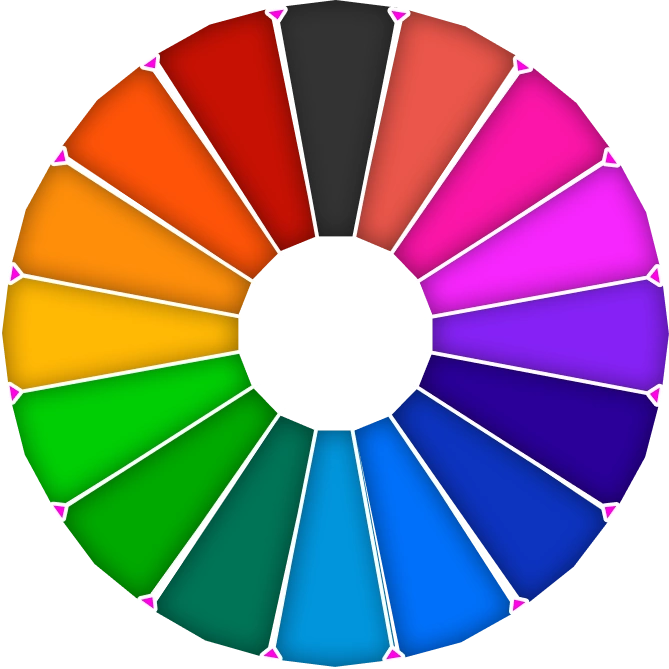
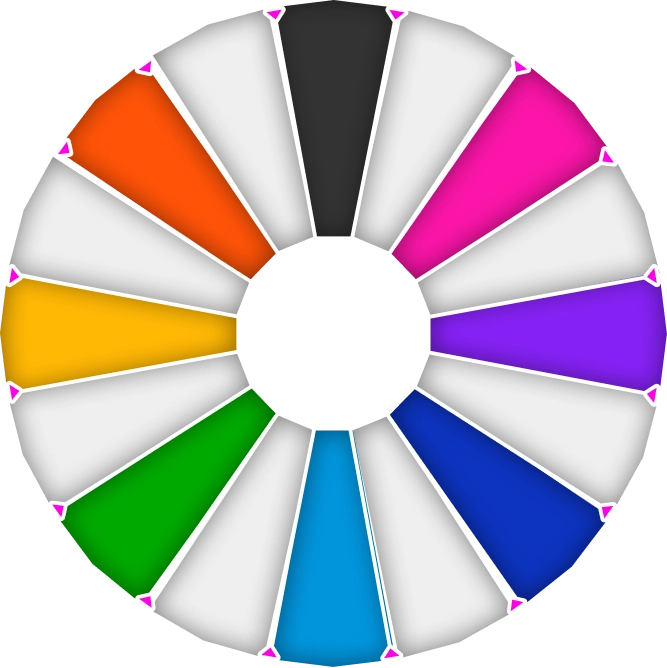
Lose version done

diff --git a/index.html b/index.html
@@ -252,14 +252,14 @@
                   >
                     <div style="--i: 1" class="number">
                       <div>
-                        <p>2.50</p>
+                        <p></p>
                         <span
                           ><img
+                            class="wheel-lose"
                             width="38"
                             height="38"
-                            class="wheel-currency"
-                            src="./img/usd.svg"
-                            alt="USD"
+                            src="./img/lose-icon.svg"
+                            alt="Lose"
                         /></span>
                       </div>
                     </div>
@@ -278,14 +278,14 @@
                     </div>
                     <div style="--i: 3" class="number">
                       <div>
-                        <p>250</p>
+                        <p></p>
                         <span
                           ><img
+                            class="wheel-lose"
                             width="38"
                             height="38"
-                            class="wheel-currency"
-                            src="./img/usd.svg"
-                            alt="USD"
+                            src="./img/lose-icon.svg"
+                            alt="Lose"
                         /></span>
                       </div>
                     </div>
@@ -304,14 +304,14 @@
                     </div>
                     <div style="--i: 5" class="number">
                       <div>
-                        <p>1,000</p>
+                        <p></p>
                         <span
                           ><img
+                            class="wheel-lose"
                             width="38"
                             height="38"
-                            class="wheel-currency"
-                            src="./img/usd.svg"
-                            alt="USD"
+                            src="./img/lose-icon.svg"
+                            alt="Lose"
                         /></span>
                       </div>
                     </div>
@@ -330,14 +330,14 @@
                     </div>
                     <div style="--i: 7" class="number">
                       <div>
-                        <p>5.00</p>
+                        <p></p>
                         <span
                           ><img
+                            class="wheel-lose"
                             width="38"
                             height="38"
-                            class="wheel-currency"
-                            src="./img/usd.svg"
-                            alt="USD"
+                            src="./img/lose-icon.svg"
+                            alt="Lose"
                         /></span>
                       </div>
                     </div>
@@ -356,14 +356,14 @@
                     </div>
                     <div style="--i: 9" class="number">
                       <div>
-                        <p>1.00</p>
+                        <p></p>
                         <span
                           ><img
+                            class="wheel-lose"
                             width="38"
                             height="38"
-                            class="wheel-currency"
-                            src="./img/usd.svg"
-                            alt="USD"
+                            src="./img/lose-icon.svg"
+                            alt="Lose"
                         /></span>
                       </div>
                     </div>
@@ -382,14 +382,14 @@
                     </div>
                     <div style="--i: 11" class="number">
                       <div>
-                        <p>10.00</p>
+                        <p></p>
                         <span
                           ><img
+                            class="wheel-lose"
                             width="38"
                             height="38"
-                            class="wheel-currency"
-                            src="./img/usd.svg"
-                            alt="USD"
+                            src="./img/lose-icon.svg"
+                            alt="Lose"
                         /></span>
                       </div>
                     </div>
@@ -408,14 +408,14 @@
                     </div>
                     <div style="--i: 13" class="number">
                       <div>
-                        <p>2,000</p>
+                        <p></p>
                         <span
                           ><img
+                            class="wheel-lose"
                             width="38"
                             height="38"
-                            class="wheel-currency"
-                            src="./img/usd.svg"
-                            alt="USD"
+                            src="./img/lose-icon.svg"
+                            alt="Lose"
                         /></span>
                       </div>
                     </div>
@@ -434,14 +434,14 @@
                     </div>
                     <div style="--i: 15" class="number">
                       <div>
-                        <p>15.00</p>
+                        <p></p>
                         <span
                           ><img
+                            class="wheel-lose"
                             width="38"
                             height="38"
-                            class="wheel-currency"
-                            src="./img/usd.svg"
-                            alt="USD"
+                            src="./img/lose-icon.svg"
+                            alt="Lose"
                         /></span>
                       </div>
                     </div>
@@ -524,7 +524,7 @@
       class="overlay fixed left-0 top-0 z-[400] hidden h-full w-full place-items-center bg-black/30 p-5 backdrop-blur-[5px] xs:p-3"
     >
       <div
-        class="modal relative z-20 flex flex-col items-center gap-5 rounded-[29px] px-[27px] py-[29px] xs:w-full xs:px-4"
+        class="modal modal-win relative z-20 flex hidden flex-col items-center gap-5 rounded-[29px] px-[27px] py-[29px] xs:w-full xs:px-4"
       >
         <div class="modal-head space-y-[10px] text-center sm:space-y-2">
           <p
@@ -552,7 +552,7 @@
           />
         </div>
         <button
-          class="modal-btn rounded-[13px] border-[3.65px] border-[#380808] p-3 px-[38px] text-center font-dela text-[31px] font-bold uppercase text-white sm:px-8 sm:py-[13px] sm:text-[26px] xs:w-full xs:px-2 xs:text-[22px]"
+          class="modal-btn w-full rounded-[13px] border-[3.65px] border-[#380808] p-3 px-4 text-center font-dela text-[31px] font-bold uppercase text-white sm:px-8 sm:py-[13px] sm:text-[26px] xs:w-full xs:px-2 xs:text-[22px]"
         >
           Claim Prize
         </button>
@@ -577,6 +577,48 @@
           height="266"
           src="./img/modal-cup.webp"
           alt="Cup"
+        />
+      </div>
+      <div
+        class="modal modal-lose relative z-20 flex max-w-[405px] flex-col items-center gap-5 rounded-[29px] px-[27px] py-[29px] xs:w-full xs:px-4"
+      >
+        <div class="modal-head space-y-[10px] text-center sm:space-y-2">
+          <p
+            class="font-dela text-[29px] font-bold capitalize leading-[133%] text-white sm:text-[24px]"
+          >
+            Unfortunately, <br />
+            You didn't win this time.
+          </p>
+          <span class="font-dela text-[24px] text-white sm:text-xl"
+            >But don't worry, you have another chance!</span
+          >
+        </div>
+        <div
+          class="modal-prize flex w-full items-center justify-center gap-4 rounded-[17px] bg-[#6c1919] p-6 sm:gap-3"
+        >
+          <span
+            class="font-dela text-[57px] leading-none sm:text-[54px] xs:-bottom-1 xs:text-[45px]"
+            >0</span
+          >
+          <img
+            class="modal-currency shrink-0 sm:h-[64px] sm:w-[64px] xs:h-12 xs:w-12"
+            width="78"
+            height="78"
+            src="./img/usd.svg"
+            alt="USD"
+          />
+        </div>
+        <button
+          class="modal-btn w-full rounded-[13px] border-[3.65px] border-[#380808] p-3 px-4 text-center font-dela text-[31px] font-bold uppercase text-white sm:px-2 sm:py-[13px] sm:text-[26px] xs:w-full xs:px-2 xs:text-[22px]"
+        >
+          Claim Prize
+        </button>
+        <img
+          class="pointer-events-none absolute -top-[160px] left-0 max-w-[60%] sm:-top-[130px]"
+          width="355"
+          height="266"
+          src="./img/modal-ball.webp"
+          alt="Ball"
         />
       </div>
       <!-- rays -->

diff --git a/style.css b/style.css
@@ -81,6 +81,7 @@
   transform: rotate(-135deg);
   display: flex;
   align-items: center;
+  justify-content: flex-end;
   gap: 8px;
 }
 
@@ -94,6 +95,10 @@
 
 .number div .wheel-currency {
   opacity: 0;
+}
+
+.number div .wheel-lose {
+  margin-left: 40px;
 }
 
 @media (max-width: 1650px) {
@@ -123,15 +128,28 @@
 }
 
 .modal {
-  box-shadow: inset 0 10px 13px 0 rgba(255, 255, 255, 0.66);
-  background: url('../img/modal-lines.svg'), linear-gradient(180deg, #24a521 0%, #26351d 100%);
   background-repeat: no-repeat;
   background-position: center;
   background-size: cover;
 }
 
-.modal-head p {
+.modal-win {
+  box-shadow: inset 0 10px 13px 0 rgba(255, 255, 255, 0.66);
+  background: url('../img/modal-lines.svg'), linear-gradient(180deg, #24a521 0%, #26351d 100%);
+
+}
+
+.modal-lose {
+  box-shadow: inset 0 8px 11px 0 rgba(255, 255, 255, 0.66);
+  background: linear-gradient(180deg, #f54242 0%, #821717 100%);
+}
+
+.modal-win .modal-head p {
   text-shadow: 0 5px 0 #1d500c, 0 -2px 0 #1d500c, -2px 0 0 #1d500c, 2px 0 0 #1d500c;
+}
+
+.modal-lose .modal-head p {
+  text-shadow: 0 5px 0 #380808, 0 -2px 0 #380808, -2px 0 0 #380808, 2px 0 0 #380808;
 }
 
 .modal-head span {

diff --git a/modules/spinning.js b/modules/spinning.js
@@ -77,7 +77,7 @@ spinBtn.addEventListener("click", () => {
   }, 500);
   buttonTl.pause();
   gsap.to(".main-wheel", {
-    rotate: 360 * 15 - nums[7],
+    rotate: 360 * 15 - nums[8],
     ease: CustomEase.create(
       "custom",
       "M0,0 C0.126,0.382 0.138,0.424 0.266,0.624 0.406,0.845 0.818,1.001 1,1 ",
